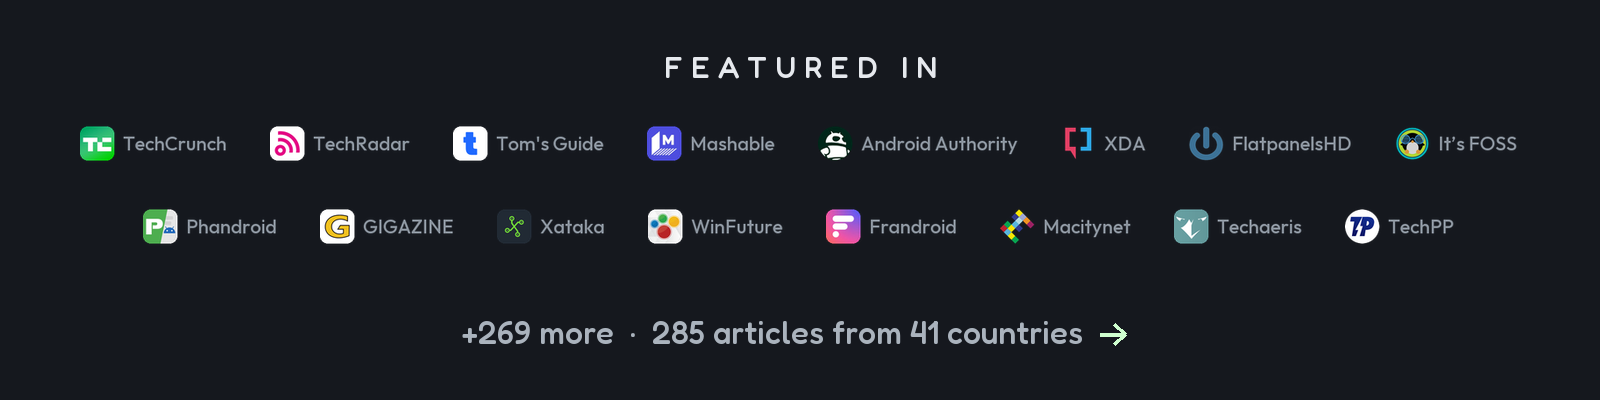
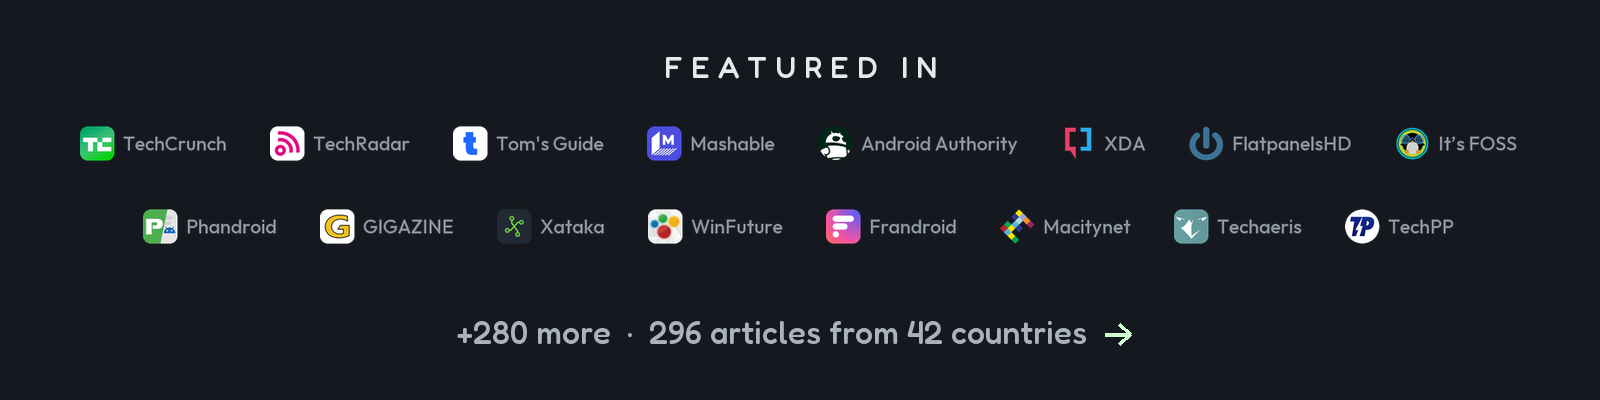
Press: 296 articles from 42 countries, the list in step with cleanyour.tv/press
Eleven articles opened by hand in a browser, where scripted fetch is blocked: Instalki and Elektroda (Poland), Golem.de, AVmania (Živě.cz), SweClockers, Kaldata, Geektime (Israel, a new country), two CSDN posts and two Zhihu columns. README alt text (English and Dutch), tools/readme_featured.py and the card say 296 articles from 42 countries.

Changed region(s): [[0.2812, 0.78, 0.7188, 0.87]]

diff --git a/tools/readme_featured.py b/tools/readme_featured.py
@@ -68,7 +68,7 @@ except ImportError:
 
 LOGOS = ["techcrunch", "techradar", "tomsguide", "mashable", "androidauthority", "xda", "flatpanelshd", "itsfoss",
          "phandroid", "gigazine", "xataka", "winfuture", "frandroid", "macitynet", "techaeris", "techpp"]
-MORE = "+269 more  ·  285 articles from 41 countries"
+MORE = "+280 more  ·  296 articles from 42 countries"
 W, LH, GAP, ROWGAP, PAD = 1600, 54, 40, 36, 80
 def f(size, wt):
     # A path that exists is not yet a font: Google Fonts serves Fredoka as a zip holding the variable

diff --git a/docs/PRESS.md b/docs/PRESS.md
@@ -1,10 +1,10 @@
 # CleanYourTV in the press
 
-Every article about CleanYourTV (called tv-vibehack until 19 October 2026) that we could open and check: **285 articles**, 239 of them from outlets in 41 countries, 9 from Spanish-language sites in Latin America and 37 from newsletters, blogs and AI news sites. Headlines are in the language they were published in. Syndicated copies and auto-generated listings are left out. [147 videos](#videos) follow the articles.
+Every article about CleanYourTV (called tv-vibehack until 19 October 2026) that we could open and check: **296 articles**, 250 of them from outlets in 42 countries, 9 from Spanish-language sites in Latin America and 37 from newsletters, blogs and AI news sites. Headlines are in the language they were published in. Syndicated copies and auto-generated listings are left out. [147 videos](#videos) follow the articles.
 
 Wrote about it and not here? Open an issue or a pull request with the link.
 
-[United States](#united-states)&nbsp;24 · [United Kingdom](#united-kingdom)&nbsp;5 · [India](#india)&nbsp;5 · [Denmark](#denmark)&nbsp;1 · [Japan](#japan)&nbsp;4 · [Bangladesh](#bangladesh)&nbsp;1 · [United Arab Emirates](#united-arab-emirates)&nbsp;1 · [France](#france)&nbsp;20 · [Germany](#germany)&nbsp;7 · [Spain](#spain)&nbsp;9 · [Italy](#italy)&nbsp;17 · [Norway](#norway)&nbsp;1 · [Portugal](#portugal)&nbsp;5 · [Czechia](#czechia)&nbsp;2 · [Ukraine](#ukraine)&nbsp;4 · [Greece](#greece)&nbsp;6 · [Egypt](#egypt)&nbsp;5 · [Brazil](#brazil)&nbsp;16 · [Latin America (Spanish-language)](#latin-america-spanish-language)&nbsp;9 · [China](#china)&nbsp;27 · [Taiwan](#taiwan)&nbsp;7 · [Indonesia](#indonesia)&nbsp;15 · [Thailand](#thailand)&nbsp;3 · [Vietnam](#vietnam)&nbsp;8 · [Netherlands](#netherlands)&nbsp;3 · [Poland](#poland)&nbsp;5 · [Russia](#russia)&nbsp;12 · [Belarus](#belarus)&nbsp;2 · [Turkey](#turkey)&nbsp;4 · [Jordan](#jordan)&nbsp;1 · [South Korea](#south-korea)&nbsp;4 · [Australia](#australia)&nbsp;2 · [Pakistan](#pakistan)&nbsp;1 · [Hungary](#hungary)&nbsp;2 · [Saudi Arabia](#saudi-arabia)&nbsp;1 · [Romania](#romania)&nbsp;2 · [Sweden](#sweden)&nbsp;1 · [Hong Kong](#hong-kong)&nbsp;2 · [Bulgaria](#bulgaria)&nbsp;1 · [Slovakia](#slovakia)&nbsp;1 · [Belgium](#belgium)&nbsp;1 · [Kenya](#kenya)&nbsp;1 · [Online (newsletters, blogs, AI news)](#online-newsletters-blogs-ai-news)&nbsp;37
+[United States](#united-states)&nbsp;24 · [United Kingdom](#united-kingdom)&nbsp;5 · [India](#india)&nbsp;5 · [Denmark](#denmark)&nbsp;1 · [Japan](#japan)&nbsp;4 · [Bangladesh](#bangladesh)&nbsp;1 · [United Arab Emirates](#united-arab-emirates)&nbsp;1 · [France](#france)&nbsp;20 · [Germany](#germany)&nbsp;8 · [Spain](#spain)&nbsp;9 · [Italy](#italy)&nbsp;17 · [Norway](#norway)&nbsp;1 · [Portugal](#portugal)&nbsp;5 · [Czechia](#czechia)&nbsp;3 · [Ukraine](#ukraine)&nbsp;4 · [Greece](#greece)&nbsp;6 · [Egypt](#egypt)&nbsp;5 · [Brazil](#brazil)&nbsp;16 · [Latin America (Spanish-language)](#latin-america-spanish-language)&nbsp;9 · [China](#china)&nbsp;31 · [Taiwan](#taiwan)&nbsp;7 · [Indonesia](#indonesia)&nbsp;15 · [Thailand](#thailand)&nbsp;3 · [Vietnam](#vietnam)&nbsp;8 · [Netherlands](#netherlands)&nbsp;3 · [Poland](#poland)&nbsp;7 · [Russia](#russia)&nbsp;12 · [Belarus](#belarus)&nbsp;2 · [Turkey](#turkey)&nbsp;4 · [Jordan](#jordan)&nbsp;1 · [South Korea](#south-korea)&nbsp;4 · [Australia](#australia)&nbsp;2 · [Pakistan](#pakistan)&nbsp;1 · [Hungary](#hungary)&nbsp;2 · [Saudi Arabia](#saudi-arabia)&nbsp;1 · [Romania](#romania)&nbsp;2 · [Sweden](#sweden)&nbsp;2 · [Hong Kong](#hong-kong)&nbsp;2 · [Bulgaria](#bulgaria)&nbsp;2 · [Slovakia](#slovakia)&nbsp;1 · [Belgium](#belgium)&nbsp;1 · [Kenya](#kenya)&nbsp;1 · [Israel](#israel)&nbsp;1 · [Online (newsletters, blogs, AI news)](#online-newsletters-blogs-ai-news)&nbsp;37
 
 ## United States
 
@@ -118,6 +118,7 @@ Wrote about it and not here? Open an issue or a pull request with the link.
 | 4K Filme | [Nutzer befreit Smart-TV mit KI von Werbung und wird dafür gefeiert](https://www.4kfilme.de/nutzer-befreit-smart-tv-mit-ki-von-werbund-und-wird-gefeiert/) | 21&nbsp;Oct |
 | TechZeitGeist | [Werbung auf dem Smart-TV: Was sich abschalten lässt und was nicht](https://www.techzeitgeist.de/werbung-auf-dem-smart-tv-was-sich-abschalten-laesst-und-was-nicht/) | 24&nbsp;Oct |
 | iFun.de | [CleanYourTV: Befreit Android-TVs von Werbung und Ballast](https://www.ifun.de/cleanyourtv-befreit-android-tvs-von-werbung-und-ballast-293435/) | 26&nbsp;Oct |
+| Golem.de | [Entrümpelung per Agent-KI: Agenten entfernen Werbung von Smart-TVs](https://www.golem.de/news/entruempelung-per-agent-ki-agenten-entfernen-werbung-von-smart-tvs-2610-214283.html) | – |
 
 ## Spain
 
@@ -177,6 +178,7 @@ Wrote about it and not here? Open an issue or a pull request with the link.
 | --- | --- | --- |
 | Insmart | [Android TV bez reklam s AI a Claude Code](https://insmart.cz/android-tv-bez-reklam-ai-claude-code/) | 19&nbsp;Oct |
 | CzechCrunch | [Chytré televize jsou plné reklam a balastu. Lidé ale našli šikovný trik a pomocí AI je upravují](https://cc.cz/chytre-televize-jsou-plne-reklam-a-balastu-lide-ale-nasli-sikovny-trik-a-pomoci-ai-je-upravuji/) | 25&nbsp;Oct |
+| AVmania (Živě.cz) | [Udělejme chytré televize zase hloupější. AI agenti z nich umí vyhodit všechno, co otravuje](https://avmania.zive.cz/archiv-clanku/udelejme-chytre-televize-zase-hloupejsi) | 20&nbsp;Oct |
 
 ## Ukraine
 
@@ -274,6 +276,10 @@ Wrote about it and not here? Open an issue or a pull request with the link.
 | 知乎专栏 Zhihu | [cleanyourtv：用 AI 给家用电视去广告换桌面](https://zhuanlan.zhihu.com/p/2096295711121974643) | – |
 | CSDN | [CleanYourTV 从 ADB 连接到换 Apple TV 风格桌面完整实操（附型号清单与避坑）](https://blog.csdn.net/luzhiqiubiji/article/details/168657505) | – |
 | 今日头条 Toutiao | [CleanYourTV一键给安卓电视去广告，免Root换回Apple TV极简桌面](https://www.toutiao.com/article/7699299071026053647/) | – |
+| CSDN | [1天狂揽791颗星！一个“给电视去广告”的小工具，凭什么全网爆火](https://blog.csdn.net/gitblog_00199/article/details/168538103) | – |
+| CSDN | [5 分钟上手：用 AI 把智能电视的广告和垃圾软件一键清干净](https://blog.csdn.net/gitblog_01132/article/details/168661872) | – |
+| 知乎专栏 Zhihu | [让 Claude Code 爆改电视，这个开源项目有点意思！](https://zhuanlan.zhihu.com/p/2095920498823652264) | – |
+| 知乎专栏 Zhihu | [安卓 TV 去广告开源工具走红，电视厂商广告收入承压](https://zhuanlan.zhihu.com/p/2095856104622368561) | – |
 
 ## Taiwan
 
@@ -345,6 +351,8 @@ Wrote about it and not here? Open an issue or a pull request with the link.
 | PurePC.pl | [Agenty AI pomagają usuwać bloatware z Google TV i Fire TV. Sprawdzamy możliwości projektów cleanyourtv i dumbtv](https://www.purepc.pl/ai-claude-code-smart-tv-reklamy-acr-cleanyourtv-dumbtv) | 20&nbsp;Oct |
 | rtvManiaK.pl | [Koniec reklam na telewizorach. Tak działa AI!](https://www.rtvmaniak.pl/9743107/koniec-reklam-na-telewizorach-tak-dziala-ai/) | 21&nbsp;Oct |
 | Bezprawnik | [Hakowanie telewizorów przez AI. Apple TV za 1499 zł traci sens?](https://bezprawnik.pl/hakowanie-telewizorow-ai/) | 19&nbsp;Oct |
+| Instalki | [Magia ery kodowania z AI. Użytkownicy sami ulepszają swoje telewizory](https://www.instalki.pl/news/tv-audio/magia-ery-kodowania-z-ai-uzytkownicy-sami-ulepszaja-swoje-telewizory/) | 23&nbsp;Oct |
+| Elektroda.pl | [AI w walce z nachalnymi reklamami - agenci AI czyszczą smart TV z reklam i śledzenia](https://www.elektroda.pl/rtvforum/topic4185760.html) | – |
 
 ## Russia
 
@@ -432,6 +440,7 @@ Wrote about it and not here? Open an issue or a pull request with the link.
 | Outlet | Article | Date |
 | --- | --- | --- |
 | Teknikveckan | [Se hur en användare vibekodar bort all reklam från sin smart-tv](https://teknikveckan.se/se-hur-en-reklamtrott-anvandare-vibekodar-bort-reklamen-fran-sin-smart-tv/) | 21&nbsp;Oct |
+| SweClockers | [AI-kod gör smart-TV dum](https://www.sweclockers.com/artikel/43315-ai-kod-gor-smart-tv-dum) | 22&nbsp;Oct |
 
 ## Hong Kong
 
@@ -445,6 +454,7 @@ Wrote about it and not here? Open an issue or a pull request with the link.
 | Outlet | Article | Date |
 | --- | --- | --- |
 | TechNews.bg | [Собственици на смарт-телевизори молят AI да направи устройствата им „глупави“](https://technews.bg/article-186575.html) | 21&nbsp;Oct |
+| Kaldata | [С помощта на AI може да се отървете от рекламите и проследяването на смарт телевизора си](https://www.kaldata.com/it-%D0%BD%D0%BE%D0%B2%D0%B8%D0%BD%D0%B8/%D0%B8%D0%B7%D0%BA%D1%83%D1%81%D1%82%D0%B2%D0%B5%D0%BD-%D0%B8%D0%BD%D1%82%D0%B5%D0%BB%D0%B5%D0%BA%D1%82/%D1%81-%D0%BF%D0%BE%D0%BC%D0%BE%D1%89%D1%82%D0%B0-%D0%BD%D0%B0-ai-%D0%BC%D0%BE%D0%B6%D0%B5-%D0%B4%D0%B0-%D1%81%D0%B5-%D0%BE%D1%82%D1%8A%D1%80%D0%B2%D0%B5%D1%82%D0%B5-%D0%BE%D1%82-%D1%80%D0%B5%D0%BA-715959.html) | 20&nbsp;Oct |
 
 ## Slovakia
 
@@ -463,6 +473,12 @@ Wrote about it and not here? Open an issue or a pull request with the link.
 | Outlet | Article | Date |
 | --- | --- | --- |
 | Tech With Muchiri | [Your slow Android TV might only need Claude: how owners are stripping out ads and bloat](https://techwithmuchiri.com/your-slow-android-tv-might-only-need-claude/) | 25&nbsp;Oct |
+
+## Israel
+
+| Outlet | Article | Date |
+| --- | --- | --- |
+| Geektime | [תופעה: משתמשים בקלוד כדי לנקות את הטלוויזיה מכל מה שגרוע בה](https://www.geektime.co.il/developers-using-ai-claude-to-hack-smart-tv/) | 24&nbsp;Oct |
 
 ## Online (newsletters, blogs, AI news)
 

diff --git a/README.nl.md b/README.nl.md
@@ -25,7 +25,7 @@
 </p>
 
 <p align="center">
-  <a href="docs/PRESS.md"><img src="docs/card.jpg" alt="316 tv-modellen · 89 merken · 28 talen · launcher van 523 KB. Genoemd in TechCrunch, TechRadar, Tom's Guide, Mashable, Android Authority, XDA, FlatpanelsHD, It's FOSS, Phandroid, GIGAZINE, Xataka, WinFuture, Frandroid, Macitynet, Techaeris, TechPP en nog 269 media: 285 artikelen uit 41 landen. Voorheen: het standaard Google TV-startscherm met een gesponsorde advertentie. Daarna: de Clean Your TV-launcher." width="800"></a>
+  <a href="docs/PRESS.md"><img src="docs/card.jpg" alt="316 tv-modellen · 89 merken · 28 talen · launcher van 523 KB. Genoemd in TechCrunch, TechRadar, Tom's Guide, Mashable, Android Authority, XDA, FlatpanelsHD, It's FOSS, Phandroid, GIGAZINE, Xataka, WinFuture, Frandroid, Macitynet, Techaeris, TechPP en nog 280 media: 296 artikelen uit 42 landen. Voorheen: het standaard Google TV-startscherm met een gesponsorde advertentie. Daarna: de Clean Your TV-launcher." width="800"></a>
 </p>
 
 **De virale tweet:** [x.com/gathint/status/2111379569030939102](https://x.com/gathint/status/2111379569030939102)

diff --git a/README.md b/README.md
@@ -25,7 +25,7 @@
 </p>
 
 <p align="center">
-  <a href="docs/PRESS.md"><img src="docs/card.jpg" alt="335 TV models · 92 brands · 29 languages · 532 KB launcher. Featured in TechCrunch, TechRadar, Tom's Guide, Mashable, Android Authority, XDA, FlatpanelsHD, It's FOSS, Phandroid, GIGAZINE, Xataka, WinFuture, Frandroid, Macitynet, Techaeris, TechPP and 269 more: 285 articles from 41 countries. Before: stock Google TV home with a sponsored ad. After: the Clean Your TV launcher." width="800"></a>
+  <a href="docs/PRESS.md"><img src="docs/card.jpg" alt="335 TV models · 92 brands · 29 languages · 532 KB launcher. Featured in TechCrunch, TechRadar, Tom's Guide, Mashable, Android Authority, XDA, FlatpanelsHD, It's FOSS, Phandroid, GIGAZINE, Xataka, WinFuture, Frandroid, Macitynet, Techaeris, TechPP and 280 more: 296 articles from 42 countries. Before: stock Google TV home with a sponsored ad. After: the Clean Your TV launcher." width="800"></a>
 </p>
 
 **Samsung, LG, Roku or another non-Android TV?** CleanYourTV can't run there, but you can still turn off
